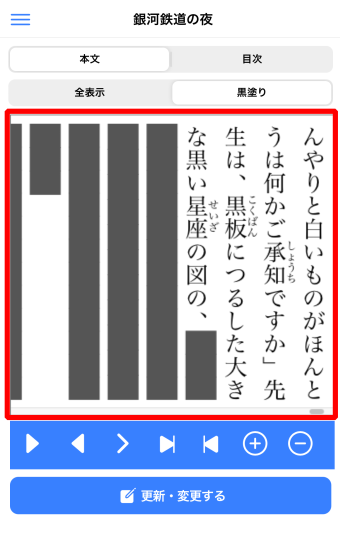
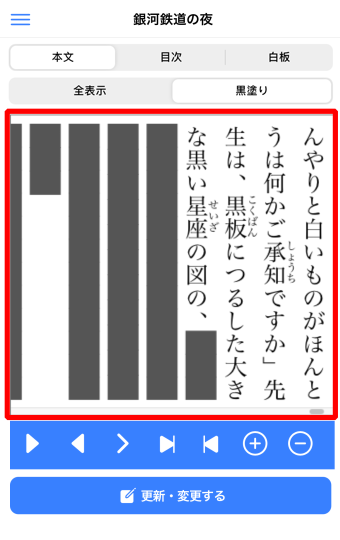
update

diff --git a/index.html b/index.html
@@ -34,7 +34,12 @@
           </ruby>したい時に、このアプリを使ってトレーニングすることができます。
         </p>
         <p>試験勉強にもお使いいただけます。</p>
-        <p>このアプリでは、登録された文章が黒塗りで表示されます。黒塗りの位置を、先頭から末尾まで、少しずつ移動しながら暗記していきます。</p><br><br>
+        <p>このアプリでは、登録された文章が黒塗りで表示されます。黒塗りの位置を、先頭から末尾まで、少しずつ移動しながら暗記していきます。</p>
+        <p>「
+          <ruby>白板
+            <rt>はくばん</rt>
+          </ruby>画面」では、暗記したい文章を、手を動かして書くことにより、より確実に暗記できるようになります。
+        </p><br><br>
         <hr>
         <h2>画面イメージ</h2>
         <h3>■ 文書表示画面</h3>
@@ -44,6 +49,12 @@
         <p><img class="img1" src="img/iphone112.png" width="260px"></p>
         <h4>[暗記学習での利用例]</h4>
         <p><img class="img1" src="img/iphone115.png" width="260px"></p>
+        <h4>[
+          <ruby>白板
+            <rt>はくばん</rt>
+          </ruby>画面]
+        </h4>
+        <p><img class="img1" src="img/iphone116.png" width="260px"></p>
         <h3>■ 文書登録画面</h3>
         <p><img class="img1" src="img/iphone113.png" width="260px"></p>
         <h3>■ 文書一覧画面</h3>

diff --git a/develop/index.html b/develop/index.html
@@ -111,8 +111,8 @@
             <td>キャンバスサイズが変更された</td>
           </tr>
           <tr>
-            <td>contents_change</td>
-            <td>本文/目次が切り替えられた</td>
+            <td>tab_change</td>
+            <td>タブが切り替えられた</td>
           </tr>
           <tr>
             <td>touch_start</td>
@@ -133,6 +133,14 @@
           <tr>
             <td>black_step</td>
             <td>ツールボタンが押された</td>
+          </tr>
+          <tr>
+            <td>stroke_back</td>
+            <td>白板画面で戻るボタンが押された</td>
+          </tr>
+          <tr>
+            <td>stroke_clear</td>
+            <td>白板画面で消去ボタンが押された</td>
           </tr>
         </table>
         <p>ほとんどの関数は、ユーザーの操作によるイベントの発生を通知するために実行されます。</p><br>
